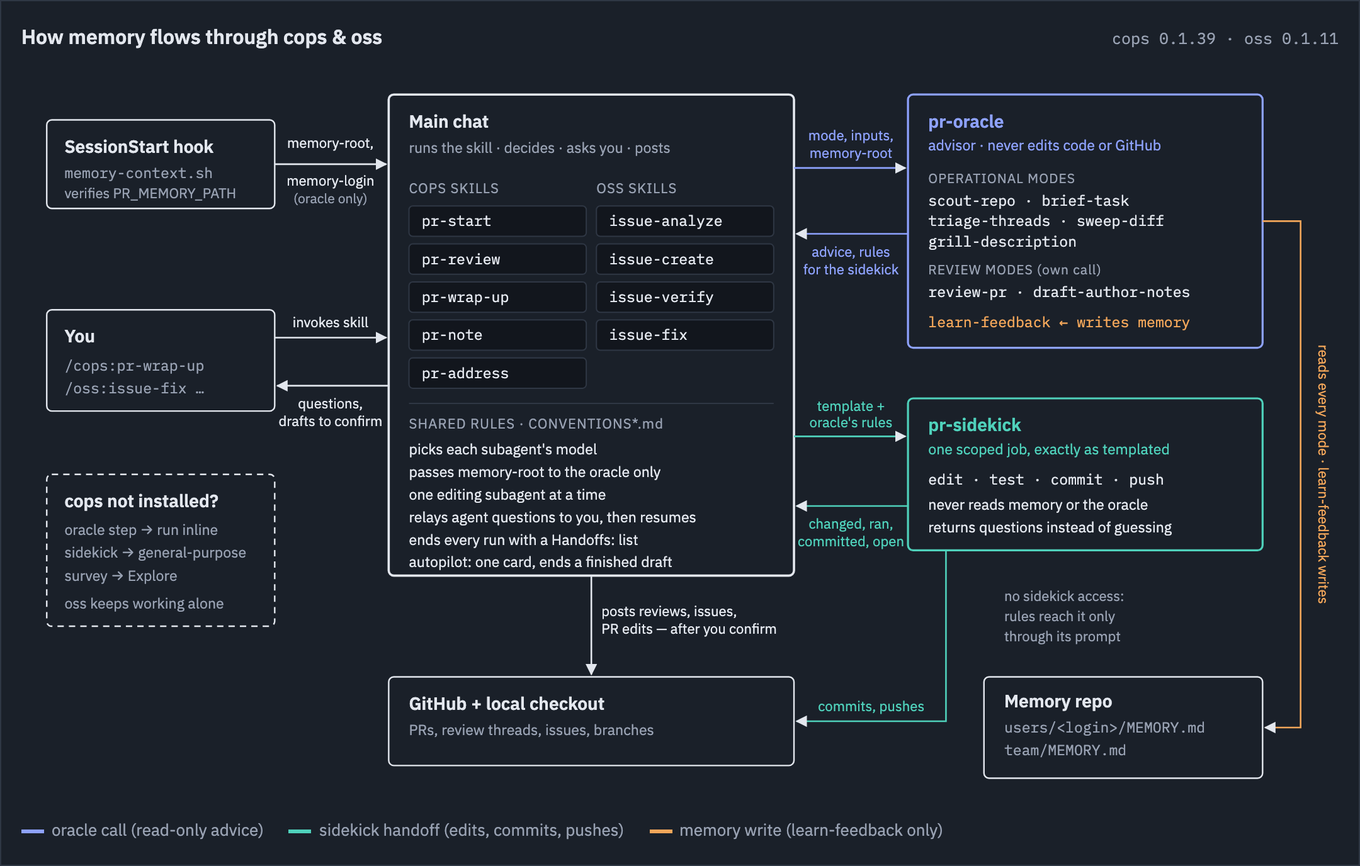
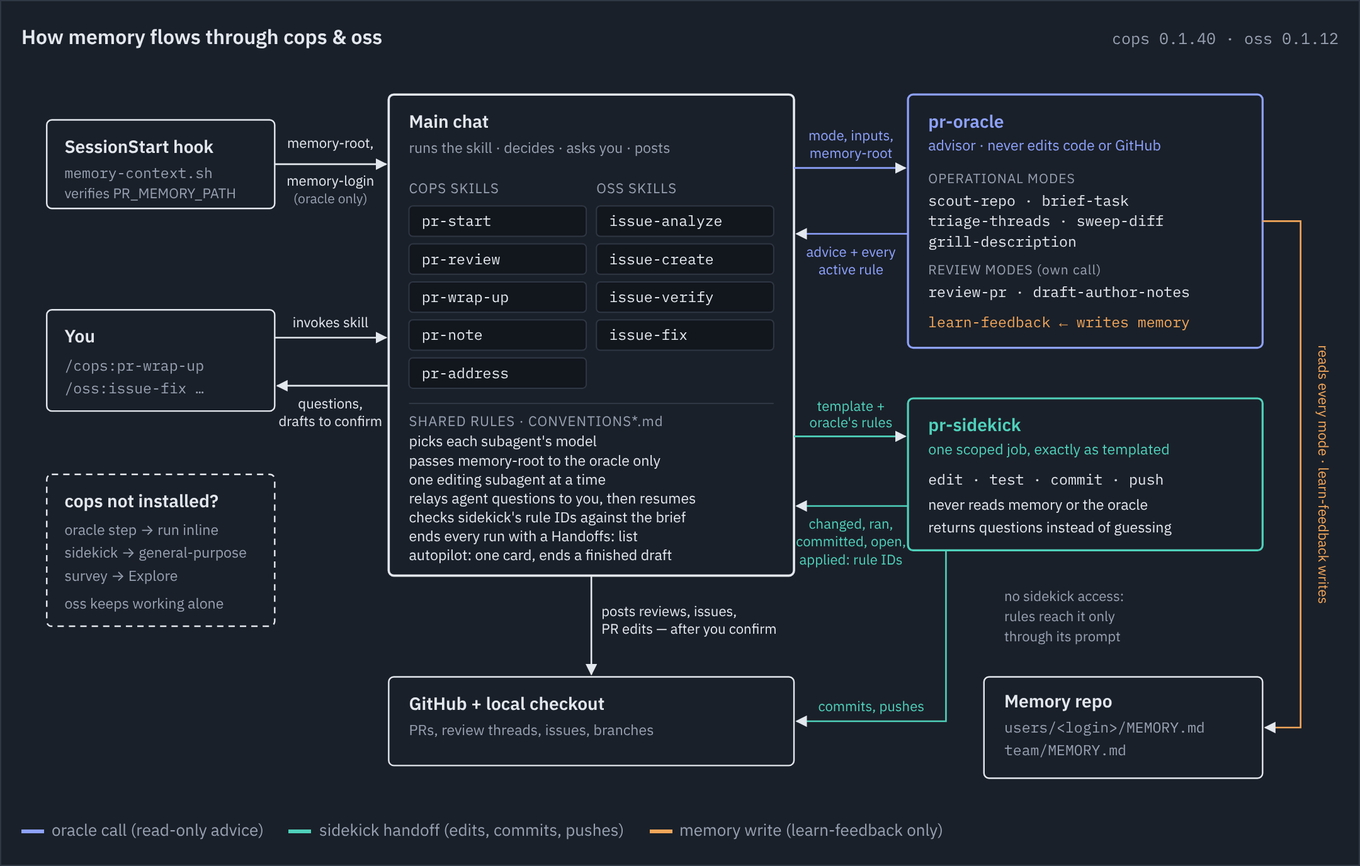
[cops] feat: pick remembered rules the same way in brief-task and sweep-diff (#126)

diff --git a/docs/memory-flow.html b/docs/memory-flow.html
@@ -41,9 +41,9 @@ svg .w { color: var(--write); } svg .w text { fill: var(--write); }
 <figure>
   <header>
     <strong>How memory flows through cops &amp; oss</strong>
-    <span id="versions">cops 0.1.39 · oss 0.1.11</span>
+    <span id="versions">cops 0.1.40 · oss 0.1.12</span>
   </header>
-  <svg viewBox="0 0 1040 580" role="img" aria-label="The main chat runs a cops or oss skill. It calls pr-oracle for read-only advice and pr-sidekick for edit, test, commit and push loops. A SessionStart hook injects the memory root. Only the oracle receives the memory root and reads the memory repo, and only its learn-feedback mode writes it. The sidekick gets remembered rules through its prompt.">
+  <svg viewBox="0 0 1040 580" role="img" aria-label="The main chat runs a cops or oss skill. It calls pr-oracle for read-only advice and pr-sidekick for edit, test, commit and push loops. A SessionStart hook injects the memory root. Only the oracle receives the memory root and reads the memory repo, and only its learn-feedback mode writes it. The oracle's brief lists every active rule and the sidekick gets them only through its prompt; main chat checks the sidekick accounted for each rule ID.">
     <defs>
       <marker id="ah" viewBox="0 0 10 10" refX="9" refY="5" markerWidth="7" markerHeight="7" orient="auto-start-reverse">
         <path d="M0,0 L10,5 L0,10 z" fill="context-stroke"/>
@@ -101,13 +101,14 @@ svg .w { color: var(--write); } svg .w text { fill: var(--write); }
     <rect class="pill" x="454" y="198" width="140" height="24" rx="3"/><text class="mono" x="464" y="214">issue-fix</text>
 
     <line class="soft" x1="306" y1="264" x2="594" y2="264"/>
-    <text class="m" x="306" y="284" style="font-size:11px;letter-spacing:.05em">SHARED RULES · CONVENTIONS*.md</text>
-    <text x="306" y="304" style="font-size:11.5px">picks each subagent's model</text>
-    <text x="306" y="322" style="font-size:11.5px">passes memory-root to the oracle only</text>
-    <text x="306" y="340" style="font-size:11.5px">one editing subagent at a time</text>
-    <text x="306" y="358" style="font-size:11.5px">relays agent questions to you, then resumes</text>
-    <text x="306" y="376" style="font-size:11.5px">ends every run with a Handoffs: list</text>
-    <text x="306" y="393" style="font-size:11.5px">autopilot: one card, ends a finished draft</text>
+    <text class="m" x="306" y="282" style="font-size:11px;letter-spacing:.05em">SHARED RULES · CONVENTIONS*.md</text>
+    <text x="306" y="298" style="font-size:11.5px">picks each subagent's model</text>
+    <text x="306" y="313" style="font-size:11.5px">passes memory-root to the oracle only</text>
+    <text x="306" y="328" style="font-size:11.5px">one editing subagent at a time</text>
+    <text x="306" y="343" style="font-size:11.5px">relays agent questions to you, then resumes</text>
+    <text x="306" y="358" style="font-size:11.5px">checks sidekick's rule IDs against the brief</text>
+    <text x="306" y="373" style="font-size:11.5px">ends every run with a Handoffs: list</text>
+    <text x="306" y="388" style="font-size:11.5px">autopilot: one card, ends a finished draft</text>
 
     <!-- Oracle -->
     <g class="o">
@@ -128,8 +129,8 @@ svg .w { color: var(--write); } svg .w text { fill: var(--write); }
       <text x="655" y="56" text-anchor="middle" style="font-size:11px">mode, inputs,</text>
       <text x="655" y="70" text-anchor="middle" style="font-size:11px">memory-root</text>
       <line class="edge" x1="700" y1="130" x2="612" y2="130" marker-end="url(#ah)"/>
-      <text x="655" y="148" text-anchor="middle" style="font-size:11px">advice, rules</text>
-      <text x="655" y="162" text-anchor="middle" style="font-size:11px">for the sidekick</text>
+      <text x="655" y="148" text-anchor="middle" style="font-size:11px">advice + every</text>
+      <text x="655" y="162" text-anchor="middle" style="font-size:11px">active rule</text>
     </g>
 
     <!-- Sidekick -->
@@ -148,7 +149,8 @@ svg .w { color: var(--write); } svg .w text { fill: var(--write); }
       <text x="655" y="283" text-anchor="middle" style="font-size:11px">oracle's rules</text>
       <line class="edge" x1="700" y1="345" x2="612" y2="345" marker-end="url(#ah)"/>
       <text x="655" y="363" text-anchor="middle" style="font-size:11px">changed, ran,</text>
-      <text x="655" y="377" text-anchor="middle" style="font-size:11px">committed, open</text>
+      <text x="655" y="377" text-anchor="middle" style="font-size:11px">committed, open,</text>
+      <text x="655" y="391" text-anchor="middle" style="font-size:11px">applied: rule IDs</text>
     </g>
 
     <!-- GitHub -->

diff --git a/CONVENTIONS-orchestration.md b/CONVENTIONS-orchestration.md
@@ -4,12 +4,12 @@
 
 When a skill names a handoff and the host can spawn a subagent, make it every time. This includes implement/test/commit, write/run-test, survey, research, and rebase/draft loops. Size or already-read code is no exemption. If handoff seems overhead, ask; never silently skip.
 
-- **Which agent.** Editing, running, or pushing → `pr-sidekick` (`cops:pr-sidekick` on Claude Code; `pr-sidekick` subagent on Cursor), passing `login: <github-login>` when known. Complete PR review or author-note drafting → `pr-oracle` under "Consulting the `pr-oracle` agent". If `cops` is absent → `general-purpose` on Claude Code or a subagent on Cursor. Other read-only survey/research → `Explore` on Claude Code or a subagent on Cursor.
+- **Which agent.** Editing, running, or pushing → `pr-sidekick` (`cops:pr-sidekick`; Cursor: `pr-sidekick`), passing `login: <github-login>` when known. Complete PR review or author-note drafting → `pr-oracle` under "Consulting the `pr-oracle` agent". If `cops` is absent → `general-purpose` (Cursor: a subagent). Other read-only survey/research → `Explore` (Cursor: a subagent).
 - **The caller picks the model by tier.** Every subagent call has one: `light` for mechanical work (also say "mechanical"), `standard` for a scoped change/survey, `deep` for cross-file judgment; oracle modes are tiered below. Pass the tier's value from the `COPS models:` line as the model. Omit it only for `inherit`, no such line, or a host without per-call models (Cursor). Mostly-design work stays in main chat.
 - **The prompt is only the filled template**: no transcript, diff, skill copy, or unrequested material.
 - **An editing subagent can't consult the oracle or read memory.** Main chat calls `pr-oracle` first and includes output, with `for: pr-sidekick` on `brief-task`.
 - **One at a time on a shared checkout.** Never parallel editing subagents.
-- **Short results.** Return only requested lines; a question, not a guess. Sidekick adds `applied:`. Main chat asks the user, then respawns with the answer.
+- **Short results.** Return only requested lines; a question, not a guess. Sidekick adds `applied:`; main chat compares its `applied:`/`not applied:` IDs with its `Rules that apply:` line: missing → resume once naming them; still missing, or an unbriefed ID → ask the user.
 - **Round.** Every spawn/check is a main-chat step. A round's fix commits get one `sweep-diff` (pre-round to `HEAD`) and one push; a sweep follow-up's commit gets one more sweep.
 - **Foreground by default.** Never set `run_in_background` unless the user explicitly asks for a background run.
 - **Bounded retries.** "Until" allows at most 3 attempts. After the third, stop, leave work uncommitted, and report attempts and remaining failure; do not respawn unasked.
@@ -44,12 +44,12 @@ Final-report users: every `cops` and `oss` skill.
 `oss` works alone; when installed, `cops` supplies `pr-oracle`, `pr-sidekick`, and `pr-wrap-up`.
 
 - **How to tell.** Installed when this session has `cops:pr-oracle`, `cops:pr-sidekick`, `/cops:pr-wrap-up` on Claude Code; or `pr-oracle`, `pr-sidekick`, `/pr-wrap-up` on Cursor. Check once and cache. Cursor is never missing.
-- **Missing → fall back, never stop or ask for installation.** `pr-oracle` → perform its specified step inline and mark `inline (cops plugin isn't installed)`; `pr-sidekick` → general-purpose/subagent fallback above; `pr-wrap-up` → say title and description need manual updating, without naming `/cops:pr-wrap-up`.
+- **Missing → fall back, never stop or ask for installation.** `pr-oracle` → perform its specified step inline and mark `inline (cops plugin isn't installed)`; `pr-sidekick` → fallback above; `pr-wrap-up` → say title and description need manual updating, without naming `/cops:pr-wrap-up`.
 - **Defaults without the oracle.** With no profile/`overrides:`, inspect repo `CLAUDE.md` and `CONTRIBUTING.md` before applying a *Default*.
 
 ## Suggesting next steps
 
-A skill never runs another skill to finish, except under "Autopilot runs"; it only suggests each applicable step once before `Handoffs:`, and only for the user's own PR, determined by `gh api user --jq .login` or `get_me`.
+A skill never runs another skill to finish, except under "Autopilot runs"; it only suggests each applicable step once before `Handoffs:`, only for the user's own PR, per `gh api user --jq .login` or `get_me`.
 
 - PR just opened → `/cops:pr-review self-reviews it; "fix, no post" skips posting.` (`/pr-review` on Cursor).
 - An existing PR was pushed; title/body may be stale → `The PR's title and description may now be stale; /cops:pr-wrap-up will update them.` (`/pr-wrap-up` on Cursor).
@@ -77,12 +77,12 @@ Skills call it at their named points in modes `scout-repo`, `triage-threads`, `b
   | `light` | sorting, extracting, formatting | `brief-task` |
   | `standard` | reading, summarising, drafting | `scout-repo`, `triage-threads`, `sweep-diff`, `grill-description`, `learn-feedback` |
   | `deep` | finding bugs, judging trade-offs | `review-pr`, `draft-author-notes` |
-- **Optional only when missing.** If `cops` is absent, perform the step inline, continue, and mark fallback. Small changes do not exempt calls. When present, call every named point; nothing inline replaces `sweep-diff` or `brief-task` as checks of remembered rules.
+- **Optional only when missing.** If `cops` is absent, perform the step inline and mark fallback. Small changes do not exempt calls. When present, call every named point; nothing inline replaces `sweep-diff` or `brief-task` as checks of remembered rules.
 - **Advice, not authority.** Current ask and skill rules win, except remembered rules override *Defaults*. Surface memory/current-ask conflicts to the user.
 - **The skill acts, the agent doesn't.** Caller pushes, replies, and edits. Report `promote:` once (repo-only rule belongs in `CLAUDE.md`). Show both rules for `conflict:` from an unrecorded contradictory `record-team:`.
 - **Pass what you have.** Include `login: <github-login>` if known; always include the selected `GitHub route:`. Later `scout-repo` calls get the run's first profile as `profile:`; `overrides:` is rebuilt from current memory. Review modes get owner/repo, PR number/URL, saved full head SHA, checkout status/path, and mode-specific inputs.
-- **Check what it loaded.** Every reply's `loaded:` must include `memory.md` and `modes/<mode>.md` per named mode. Missing or no `loaded:` → call again once, naming the missing files to read first. Still missing → use the reply and mark the handoff `✓ (incomplete load: <files>)`.
-- **Pass memory context.** Session context supplies the verified COPS memory root and configured memory login, or says each is unavailable/unset. Pass `memory-root: <absolute path | unavailable>` and `memory-login: <login | unset>` to every `pr-oracle` call. Never pass them to `pr-sidekick`: it reads no memory, and gets remembered rules only as oracle lines, `[U-014]` IDs kept, in its prompt. Never fill `memory-login` from `gh`, `get_me`, or `login:`.
+- **Check what it loaded.** Every reply's `loaded:` must include `memory.md`, `modes/<mode>.md` per mode, `picking.md` for `brief-task`, `sweep-diff`, `triage-threads` or `review-pr`. Missing or no `loaded:` → call again once, naming the missing files. Still missing → use the reply and mark the handoff `✓ (incomplete load: <files>)`.
+- **Pass memory context.** Session context supplies the verified COPS memory root and configured memory login, or says each is unavailable/unset. Pass `memory-root: <absolute path | unavailable>` and `memory-login: <login | unset>` to every `pr-oracle` call. Never pass them to `pr-sidekick`: it reads no memory, and gets rules only as oracle lines, IDs kept. Never fill `memory-login` from `gh`, `get_me`, or `login:`.
 - **Graduated memory consent.** Operational modes never write memory. Show `memory-candidate:` to the user; only explicit remember or promotion intent permits a separate `learn-feedback` call. On `not concrete:`, ask the user to restate the rule and call again with their wording; never rephrase it for them. Reviewer-derived rules stay inactive candidates until explicitly promoted.
 - **Team memory.** Only a separate `learn-feedback` call for an explicit team-memory request receives `record-team: <one line>`.
 

diff --git a/cops/CONVENTIONS-orchestration.md b/cops/CONVENTIONS-orchestration.md
@@ -4,12 +4,12 @@
 
 When a skill names a handoff and the host can spawn a subagent, make it every time. This includes implement/test/commit, write/run-test, survey, research, and rebase/draft loops. Size or already-read code is no exemption. If handoff seems overhead, ask; never silently skip.
 
-- **Which agent.** Editing, running, or pushing → `pr-sidekick` (`cops:pr-sidekick` on Claude Code; `pr-sidekick` subagent on Cursor), passing `login: <github-login>` when known. Complete PR review or author-note drafting → `pr-oracle` under "Consulting the `pr-oracle` agent". If `cops` is absent → `general-purpose` on Claude Code or a subagent on Cursor. Other read-only survey/research → `Explore` on Claude Code or a subagent on Cursor.
+- **Which agent.** Editing, running, or pushing → `pr-sidekick` (`cops:pr-sidekick`; Cursor: `pr-sidekick`), passing `login: <github-login>` when known. Complete PR review or author-note drafting → `pr-oracle` under "Consulting the `pr-oracle` agent". If `cops` is absent → `general-purpose` (Cursor: a subagent). Other read-only survey/research → `Explore` (Cursor: a subagent).
 - **The caller picks the model by tier.** Every subagent call has one: `light` for mechanical work (also say "mechanical"), `standard` for a scoped change/survey, `deep` for cross-file judgment; oracle modes are tiered below. Pass the tier's value from the `COPS models:` line as the model. Omit it only for `inherit`, no such line, or a host without per-call models (Cursor). Mostly-design work stays in main chat.
 - **The prompt is only the filled template**: no transcript, diff, skill copy, or unrequested material.
 - **An editing subagent can't consult the oracle or read memory.** Main chat calls `pr-oracle` first and includes output, with `for: pr-sidekick` on `brief-task`.
 - **One at a time on a shared checkout.** Never parallel editing subagents.
-- **Short results.** Return only requested lines; a question, not a guess. Sidekick adds `applied:`. Main chat asks the user, then respawns with the answer.
+- **Short results.** Return only requested lines; a question, not a guess. Sidekick adds `applied:`; main chat compares its `applied:`/`not applied:` IDs with its `Rules that apply:` line: missing → resume once naming them; still missing, or an unbriefed ID → ask the user.
 - **Round.** Every spawn/check is a main-chat step. A round's fix commits get one `sweep-diff` (pre-round to `HEAD`) and one push; a sweep follow-up's commit gets one more sweep.
 - **Foreground by default.** Never set `run_in_background` unless the user explicitly asks for a background run.
 - **Bounded retries.** "Until" allows at most 3 attempts. After the third, stop, leave work uncommitted, and report attempts and remaining failure; do not respawn unasked.
@@ -44,12 +44,12 @@ Final-report users: every `cops` and `oss` skill.
 `oss` works alone; when installed, `cops` supplies `pr-oracle`, `pr-sidekick`, and `pr-wrap-up`.
 
 - **How to tell.** Installed when this session has `cops:pr-oracle`, `cops:pr-sidekick`, `/cops:pr-wrap-up` on Claude Code; or `pr-oracle`, `pr-sidekick`, `/pr-wrap-up` on Cursor. Check once and cache. Cursor is never missing.
-- **Missing → fall back, never stop or ask for installation.** `pr-oracle` → perform its specified step inline and mark `inline (cops plugin isn't installed)`; `pr-sidekick` → general-purpose/subagent fallback above; `pr-wrap-up` → say title and description need manual updating, without naming `/cops:pr-wrap-up`.
+- **Missing → fall back, never stop or ask for installation.** `pr-oracle` → perform its specified step inline and mark `inline (cops plugin isn't installed)`; `pr-sidekick` → fallback above; `pr-wrap-up` → say title and description need manual updating, without naming `/cops:pr-wrap-up`.
 - **Defaults without the oracle.** With no profile/`overrides:`, inspect repo `CLAUDE.md` and `CONTRIBUTING.md` before applying a *Default*.
 
 ## Suggesting next steps
 
-A skill never runs another skill to finish, except under "Autopilot runs"; it only suggests each applicable step once before `Handoffs:`, and only for the user's own PR, determined by `gh api user --jq .login` or `get_me`.
+A skill never runs another skill to finish, except under "Autopilot runs"; it only suggests each applicable step once before `Handoffs:`, only for the user's own PR, per `gh api user --jq .login` or `get_me`.
 
 - PR just opened → `/cops:pr-review self-reviews it; "fix, no post" skips posting.` (`/pr-review` on Cursor).
 - An existing PR was pushed; title/body may be stale → `The PR's title and description may now be stale; /cops:pr-wrap-up will update them.` (`/pr-wrap-up` on Cursor).
@@ -77,12 +77,12 @@ Skills call it at their named points in modes `scout-repo`, `triage-threads`, `b
   | `light` | sorting, extracting, formatting | `brief-task` |
   | `standard` | reading, summarising, drafting | `scout-repo`, `triage-threads`, `sweep-diff`, `grill-description`, `learn-feedback` |
   | `deep` | finding bugs, judging trade-offs | `review-pr`, `draft-author-notes` |
-- **Optional only when missing.** If `cops` is absent, perform the step inline, continue, and mark fallback. Small changes do not exempt calls. When present, call every named point; nothing inline replaces `sweep-diff` or `brief-task` as checks of remembered rules.
+- **Optional only when missing.** If `cops` is absent, perform the step inline and mark fallback. Small changes do not exempt calls. When present, call every named point; nothing inline replaces `sweep-diff` or `brief-task` as checks of remembered rules.
 - **Advice, not authority.** Current ask and skill rules win, except remembered rules override *Defaults*. Surface memory/current-ask conflicts to the user.
 - **The skill acts, the agent doesn't.** Caller pushes, replies, and edits. Report `promote:` once (repo-only rule belongs in `CLAUDE.md`). Show both rules for `conflict:` from an unrecorded contradictory `record-team:`.
 - **Pass what you have.** Include `login: <github-login>` if known; always include the selected `GitHub route:`. Later `scout-repo` calls get the run's first profile as `profile:`; `overrides:` is rebuilt from current memory. Review modes get owner/repo, PR number/URL, saved full head SHA, checkout status/path, and mode-specific inputs.
-- **Check what it loaded.** Every reply's `loaded:` must include `memory.md` and `modes/<mode>.md` per named mode. Missing or no `loaded:` → call again once, naming the missing files to read first. Still missing → use the reply and mark the handoff `✓ (incomplete load: <files>)`.
-- **Pass memory context.** Session context supplies the verified COPS memory root and configured memory login, or says each is unavailable/unset. Pass `memory-root: <absolute path | unavailable>` and `memory-login: <login | unset>` to every `pr-oracle` call. Never pass them to `pr-sidekick`: it reads no memory, and gets remembered rules only as oracle lines, `[U-014]` IDs kept, in its prompt. Never fill `memory-login` from `gh`, `get_me`, or `login:`.
+- **Check what it loaded.** Every reply's `loaded:` must include `memory.md`, `modes/<mode>.md` per mode, `picking.md` for `brief-task`, `sweep-diff`, `triage-threads` or `review-pr`. Missing or no `loaded:` → call again once, naming the missing files. Still missing → use the reply and mark the handoff `✓ (incomplete load: <files>)`.
+- **Pass memory context.** Session context supplies the verified COPS memory root and configured memory login, or says each is unavailable/unset. Pass `memory-root: <absolute path | unavailable>` and `memory-login: <login | unset>` to every `pr-oracle` call. Never pass them to `pr-sidekick`: it reads no memory, and gets rules only as oracle lines, IDs kept. Never fill `memory-login` from `gh`, `get_me`, or `login:`.
 - **Graduated memory consent.** Operational modes never write memory. Show `memory-candidate:` to the user; only explicit remember or promotion intent permits a separate `learn-feedback` call. On `not concrete:`, ask the user to restate the rule and call again with their wording; never rephrase it for them. Reviewer-derived rules stay inactive candidates until explicitly promoted.
 - **Team memory.** Only a separate `learn-feedback` call for an explicit team-memory request receives `record-team: <one line>`.
 

diff --git a/oss/CONVENTIONS-orchestration.md b/oss/CONVENTIONS-orchestration.md
@@ -4,12 +4,12 @@
 
 When a skill names a handoff and the host can spawn a subagent, make it every time. This includes implement/test/commit, write/run-test, survey, research, and rebase/draft loops. Size or already-read code is no exemption. If handoff seems overhead, ask; never silently skip.
 
-- **Which agent.** Editing, running, or pushing → `pr-sidekick` (`cops:pr-sidekick` on Claude Code; `pr-sidekick` subagent on Cursor), passing `login: <github-login>` when known. Complete PR review or author-note drafting → `pr-oracle` under "Consulting the `pr-oracle` agent". If `cops` is absent → `general-purpose` on Claude Code or a subagent on Cursor. Other read-only survey/research → `Explore` on Claude Code or a subagent on Cursor.
+- **Which agent.** Editing, running, or pushing → `pr-sidekick` (`cops:pr-sidekick`; Cursor: `pr-sidekick`), passing `login: <github-login>` when known. Complete PR review or author-note drafting → `pr-oracle` under "Consulting the `pr-oracle` agent". If `cops` is absent → `general-purpose` (Cursor: a subagent). Other read-only survey/research → `Explore` (Cursor: a subagent).
 - **The caller picks the model by tier.** Every subagent call has one: `light` for mechanical work (also say "mechanical"), `standard` for a scoped change/survey, `deep` for cross-file judgment; oracle modes are tiered below. Pass the tier's value from the `COPS models:` line as the model. Omit it only for `inherit`, no such line, or a host without per-call models (Cursor). Mostly-design work stays in main chat.
 - **The prompt is only the filled template**: no transcript, diff, skill copy, or unrequested material.
 - **An editing subagent can't consult the oracle or read memory.** Main chat calls `pr-oracle` first and includes output, with `for: pr-sidekick` on `brief-task`.
 - **One at a time on a shared checkout.** Never parallel editing subagents.
-- **Short results.** Return only requested lines; a question, not a guess. Sidekick adds `applied:`. Main chat asks the user, then respawns with the answer.
+- **Short results.** Return only requested lines; a question, not a guess. Sidekick adds `applied:`; main chat compares its `applied:`/`not applied:` IDs with its `Rules that apply:` line: missing → resume once naming them; still missing, or an unbriefed ID → ask the user.
 - **Round.** Every spawn/check is a main-chat step. A round's fix commits get one `sweep-diff` (pre-round to `HEAD`) and one push; a sweep follow-up's commit gets one more sweep.
 - **Foreground by default.** Never set `run_in_background` unless the user explicitly asks for a background run.
 - **Bounded retries.** "Until" allows at most 3 attempts. After the third, stop, leave work uncommitted, and report attempts and remaining failure; do not respawn unasked.
@@ -44,12 +44,12 @@ Final-report users: every `cops` and `oss` skill.
 `oss` works alone; when installed, `cops` supplies `pr-oracle`, `pr-sidekick`, and `pr-wrap-up`.
 
 - **How to tell.** Installed when this session has `cops:pr-oracle`, `cops:pr-sidekick`, `/cops:pr-wrap-up` on Claude Code; or `pr-oracle`, `pr-sidekick`, `/pr-wrap-up` on Cursor. Check once and cache. Cursor is never missing.
-- **Missing → fall back, never stop or ask for installation.** `pr-oracle` → perform its specified step inline and mark `inline (cops plugin isn't installed)`; `pr-sidekick` → general-purpose/subagent fallback above; `pr-wrap-up` → say title and description need manual updating, without naming `/cops:pr-wrap-up`.
+- **Missing → fall back, never stop or ask for installation.** `pr-oracle` → perform its specified step inline and mark `inline (cops plugin isn't installed)`; `pr-sidekick` → fallback above; `pr-wrap-up` → say title and description need manual updating, without naming `/cops:pr-wrap-up`.
 - **Defaults without the oracle.** With no profile/`overrides:`, inspect repo `CLAUDE.md` and `CONTRIBUTING.md` before applying a *Default*.
 
 ## Suggesting next steps
 
-A skill never runs another skill to finish, except under "Autopilot runs"; it only suggests each applicable step once before `Handoffs:`, and only for the user's own PR, determined by `gh api user --jq .login` or `get_me`.
+A skill never runs another skill to finish, except under "Autopilot runs"; it only suggests each applicable step once before `Handoffs:`, only for the user's own PR, per `gh api user --jq .login` or `get_me`.
 
 - PR just opened → `/cops:pr-review self-reviews it; "fix, no post" skips posting.` (`/pr-review` on Cursor).
 - An existing PR was pushed; title/body may be stale → `The PR's title and description may now be stale; /cops:pr-wrap-up will update them.` (`/pr-wrap-up` on Cursor).
@@ -77,12 +77,12 @@ Skills call it at their named points in modes `scout-repo`, `triage-threads`, `b
   | `light` | sorting, extracting, formatting | `brief-task` |
   | `standard` | reading, summarising, drafting | `scout-repo`, `triage-threads`, `sweep-diff`, `grill-description`, `learn-feedback` |
   | `deep` | finding bugs, judging trade-offs | `review-pr`, `draft-author-notes` |
-- **Optional only when missing.** If `cops` is absent, perform the step inline, continue, and mark fallback. Small changes do not exempt calls. When present, call every named point; nothing inline replaces `sweep-diff` or `brief-task` as checks of remembered rules.
+- **Optional only when missing.** If `cops` is absent, perform the step inline and mark fallback. Small changes do not exempt calls. When present, call every named point; nothing inline replaces `sweep-diff` or `brief-task` as checks of remembered rules.
 - **Advice, not authority.** Current ask and skill rules win, except remembered rules override *Defaults*. Surface memory/current-ask conflicts to the user.
 - **The skill acts, the agent doesn't.** Caller pushes, replies, and edits. Report `promote:` once (repo-only rule belongs in `CLAUDE.md`). Show both rules for `conflict:` from an unrecorded contradictory `record-team:`.
 - **Pass what you have.** Include `login: <github-login>` if known; always include the selected `GitHub route:`. Later `scout-repo` calls get the run's first profile as `profile:`; `overrides:` is rebuilt from current memory. Review modes get owner/repo, PR number/URL, saved full head SHA, checkout status/path, and mode-specific inputs.
-- **Check what it loaded.** Every reply's `loaded:` must include `memory.md` and `modes/<mode>.md` per named mode. Missing or no `loaded:` → call again once, naming the missing files to read first. Still missing → use the reply and mark the handoff `✓ (incomplete load: <files>)`.
-- **Pass memory context.** Session context supplies the verified COPS memory root and configured memory login, or says each is unavailable/unset. Pass `memory-root: <absolute path | unavailable>` and `memory-login: <login | unset>` to every `pr-oracle` call. Never pass them to `pr-sidekick`: it reads no memory, and gets remembered rules only as oracle lines, `[U-014]` IDs kept, in its prompt. Never fill `memory-login` from `gh`, `get_me`, or `login:`.
+- **Check what it loaded.** Every reply's `loaded:` must include `memory.md`, `modes/<mode>.md` per mode, `picking.md` for `brief-task`, `sweep-diff`, `triage-threads` or `review-pr`. Missing or no `loaded:` → call again once, naming the missing files. Still missing → use the reply and mark the handoff `✓ (incomplete load: <files>)`.
+- **Pass memory context.** Session context supplies the verified COPS memory root and configured memory login, or says each is unavailable/unset. Pass `memory-root: <absolute path | unavailable>` and `memory-login: <login | unset>` to every `pr-oracle` call. Never pass them to `pr-sidekick`: it reads no memory, and gets rules only as oracle lines, IDs kept. Never fill `memory-login` from `gh`, `get_me`, or `login:`.
 - **Graduated memory consent.** Operational modes never write memory. Show `memory-candidate:` to the user; only explicit remember or promotion intent permits a separate `learn-feedback` call. On `not concrete:`, ask the user to restate the rule and call again with their wording; never rephrase it for them. Reviewer-derived rules stay inactive candidates until explicitly promoted.
 - **Team memory.** Only a separate `learn-feedback` call for an explicit team-memory request receives `record-team: <one line>`.
 

diff --git a/cops/references/pr-oracle/modes/brief-task.md b/cops/references/pr-oracle/modes/brief-task.md
@@ -2,15 +2,15 @@
 
 Input: ask and affected files, or `PR description` for `cops:pr-wrap-up`, and optionally `for: pr-sidekick` and `for: task-card` (both may be passed).
 
-Return only applicable active rules, most relevant first, with evidence:
+Return every active rule (`../picking.md`), most relevant first, with evidence and any `applies-to:` text:
 
 ```text
 - [<id>] <rule>  (<evidence from the entry>, from you | team)
 ```
 
-If none, return exactly `no relevant memory`. Never pad.
+No active rules → return exactly `no relevant memory`. Relevance only orders; never drop a rule.
 
-With `for: pr-sidekick`, the caller pastes the brief into an editing subagent's prompt, its only source of memory. Also include every active rule on how code, tests, or commits are written that could apply to the affected files, even when the ask doesn't mention it. Leave out rules only the caller can act on (consulting the oracle, asking the user, when to push or squash) and list them after the brief under `caller only:` in the same line format. `no relevant memory` then covers only the brief; still add `caller only:` when it has lines.
+With `for: pr-sidekick`, the caller pastes the brief into an editing subagent's prompt, its only source of memory. List the rules only the caller can act on after the brief under `caller only:` in the same line format. `no relevant memory` then covers only the brief; still add `caller only:` when it has lines.
 
 **Evidence.** Only with `for: task-card`, for an ask (not `PR description`), always end with one `Evidence:` line for the caller's task card, a candidate list only:
 

diff --git a/cops/agents/pr-oracle.md b/cops/agents/pr-oracle.md
@@ -16,6 +16,7 @@ Load only these dependencies, then Read the active `<mode>.md` file(s) under `..
 
 - `memory.md`: every mode; active memory affects `scout-repo` overrides.
 - `github-access.md`: `scout-repo`, `triage-threads`, `sweep-diff`.
+- `picking.md`: `brief-task`, `sweep-diff`, `triage-threads`, `review-pr`.
 - `review-evidence.md`: `review-pr`, `draft-author-notes`.
 - `learning.md`: `learn-feedback` only.
 
@@ -33,7 +34,7 @@ Read GitHub only with read-only `gh api` REST calls, never MCP: operational mode
 
 Write only in that repository's `memory/users/<login>/` and `memory/team/`. Bash is read-only: local `git diff/log/blame` and allowed `gh api` reads. Never clone, pull, commit, or push memory. If blocked, request permission.
 
-Never broaden modes. Modes except `learn-feedback` may emit `memory-candidate: <rule/evidence>`, never persist. Cite a stored rule as `[<id>] <rule>` everywhere, suffixes included. No ID yet: `<rule>`. `sweep-diff` matches active rules; `brief-task` returns relevant active memory; `triage-threads` obeys supplied classification; `grill-description` never edits.
+Never broaden modes. Modes except `learn-feedback` may emit `memory-candidate: <rule/evidence>`, never persist. Cite a stored rule as `[<id>] <rule>` everywhere, suffixes included. No ID yet: `<rule>`. `triage-threads` obeys supplied classification; `grill-description` never edits.
 
 ## Output suffixes
 

diff --git a/cops/references/pr-oracle/memory.md b/cops/references/pr-oracle/memory.md
@@ -17,6 +17,6 @@ Write only these files. Store only cross-repository rules; never name a reposito
 
 Write personal data only under `memory/users/<github-login>/`. Team writes require `learn-feedback` with `record-team:`. Never store repository-only rules.
 
-Before mode work, verify `memory-root` is an attached workspace Git root. Then read/apply only the first 200 lines of the current user's and team `MEMORY.md`. A rule ending `applies-to: <glob>[, <glob>]` applies only to paths a glob matches; no `applies-to:` → always applies. Never read another user's tree. Rules start with an ID: `[U-nnn]` personal, `[T-nnn]` team. Cite rules as `[U-014] <rule>`, keeping the text.
+Before mode work, verify `memory-root` is an attached workspace Git root. Then read/apply only the first 200 lines of the current user's and team `MEMORY.md`. A rule ending `applies-to: <glob>[, <glob>]` is a hint, not a filter: unmatched paths can't break it. Never read another user's tree. Rules start with an ID: `[U-nnn]` personal, `[T-nnn]` team. Cite rules as `[U-014] <rule>`, keeping the text.
 
 If `memory-root` is absent, `unavailable`, outside the workspace, or not a Git root, do not read or write memory. Run the requested mode without memory and append `memory unavailable — configure an attached workspace Git root`. Never clone, pull, commit, or push the memory repository.

diff --git a/cops/agents/pr-sidekick.md b/cops/agents/pr-sidekick.md
@@ -16,7 +16,7 @@ The caller picks it per call, since it knows how hard the job is and you don't (
 
 ## Remembered rules
 
-You never read or write memory. The oracle picks the remembered rules for this job and the caller puts them in your prompt: the `Rules that apply:` line, or the oracle brief. Apply them. A rule conflicts with the prompt's ask → follow the ask and list it under `not applied`. Cite a rule by its leading ID, e.g. `[U-014]`. No rules line, or `none` → no remembered rules apply; don't go looking for memory files.
+You never read or write memory. The oracle picks the remembered rules for this job and the caller puts them in your prompt: the `Rules that apply:` line, or the oracle brief. Apply them. Account for every rule ID you were given: a rule whose `applies-to:` globs match none of the files you touch goes under `not applied` as `(no matching files)`; one nothing in your change touches, as `(not triggered)`; one that conflicts with the prompt's ask → follow the ask and list it there too. Cite a rule by its leading ID, e.g. `[U-014]`. No rules line, or `none` → no remembered rules apply; don't go looking for memory files.
 
 ## How much to decide
 

diff --git a/cops/references/pr-oracle/modes/review-pr.md b/cops/references/pr-oracle/modes/review-pr.md
@@ -1,6 +1,6 @@
 # Mode: `review-pr`
 
-Follow `../review-evidence.md`. Draft substantial, actionable comments using applicable active memory. Prioritize correctness, behavior, public/runtime surfaces, errors, APIs/types, defaults, migrations, critical changes, and supplied rules. Exclude praise, restatement, lint/format nits, taste, and duplicates. Keep at most 10; count extras in `dropped`.
+Follow `../review-evidence.md`. Draft substantial, actionable comments checking every active rule (`../picking.md`) against the diff. A broken rule is a comment even when it reads as style; name it in `rule:`. Prioritize correctness, behavior, public/runtime surfaces, errors, APIs/types, defaults, migrations, critical changes, and supplied rules. Exclude praise, restatement, lint/format nits, taste, and duplicates. Keep at most 10; count extras in `dropped`.
 
 Use optional `review_body` only for one verified whole-PR finding inherently lacking a changed-line anchor, such as a required missing changeset. Never move an invalid inline candidate there.
 

diff --git a/cops/references/pr-oracle/modes/sweep-diff.md b/cops/references/pr-oracle/modes/sweep-diff.md
@@ -2,9 +2,9 @@
 
 Input: the repository, the selected GitHub route, and the diff to check: a range such as `origin/main...HEAD`, the working tree, or `PR #<number>`. For a PR, read the diff through the PR diff read in `../github-access.md`.
 
-List the diff's changed paths. Apply only rules whose `applies-to:` globs match one of them, plus rules without `applies-to:` (`../memory.md`); skip the rest. A Markdown-only diff skips a rule with `applies-to: **/*.ts`. No rule applies → return `clean`.
+Check every active rule (`../picking.md`) against the diff, minus caller-only ones. A Markdown-only diff can't break a rule with `applies-to: **/*.ts`. No active rules → return `clean`.
 
-Flag each place where the diff repeats something a remembered rule says reviewers push back on. Return:
+Flag each place where the diff breaks a rule. Return:
 
 ```text
 - <path>:<line>  <what's wrong>  — rule: [<id>] <rule> (<evidence>, from you | team)

diff --git a/cops/references/pr-oracle/picking.md b/cops/references/pr-oracle/picking.md
@@ -1,0 +1,7 @@
+# Picking rules
+
+`brief-task`, `sweep-diff`, `review-pr`, and `triage-threads`' `edit-rules:` use the same set: every active rule from `memory.md`'s files. Nothing is filtered or dropped.
+
+- **`applies-to:` is a hint, not a filter.** Keep it on the rule's line. A rule whose globs match none of the paths in scope can't be broken there; the reader notes that and moves on.
+- **Judgment only orders or checks.** `brief-task` orders rules, most relevant first; `sweep-diff` checks each against the diff. Never leave a rule out because the ask or diff doesn't mention it.
+- **Caller-only rules.** A rule only the caller can act on (consulting the oracle, asking the user, when to push or squash) is returned as `caller only:`; `sweep-diff` skips it, since no diff can break it.

diff --git a/cops/references/pr-oracle/modes/triage-threads.md b/cops/references/pr-oracle/modes/triage-threads.md
@@ -29,5 +29,5 @@ edit-rules:
   - [<id>] <rule>  (<evidence>, from you | team)
 ```
 
-`edit-rules:` lists every active rule on how code, tests, or commits are written. The caller pastes it into editing handoffs, which have no other source of memory. Leave out rules only the caller can act on (consulting the oracle, asking the user, when to push or squash). None → `edit-rules: none`.
+`edit-rules:` lists every active rule, picked as `picking.md` describes. The caller pastes it into editing handoffs, which have no other source of memory. Leave out rules only the caller can act on (consulting the oracle, asking the user, when to push or squash). None → `edit-rules: none`.
 
